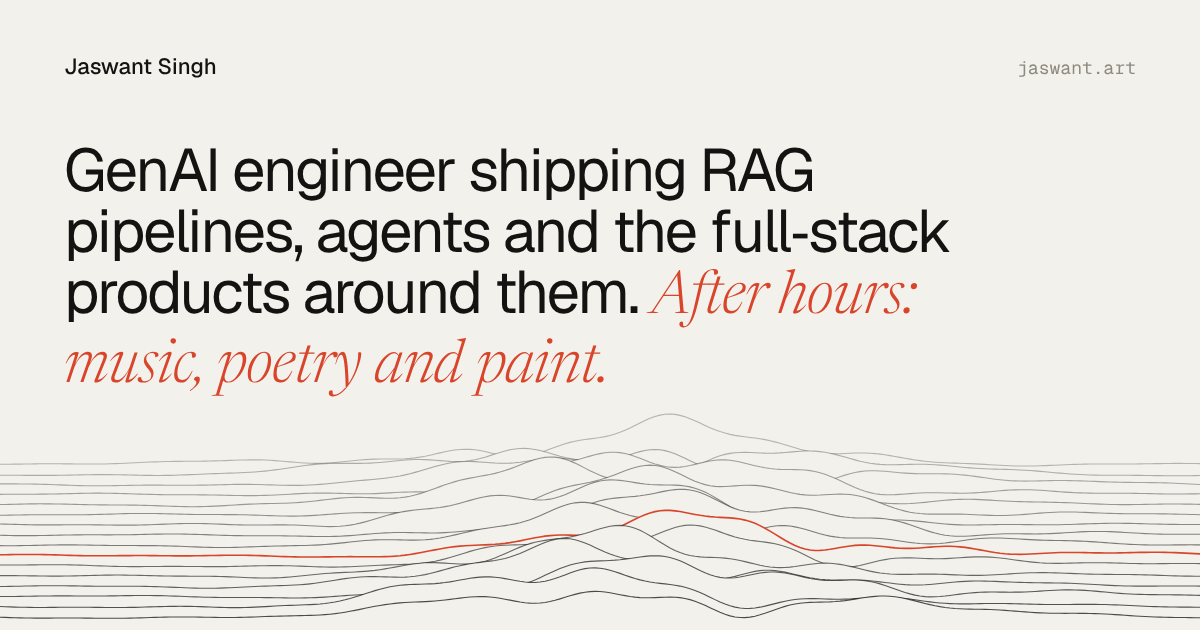
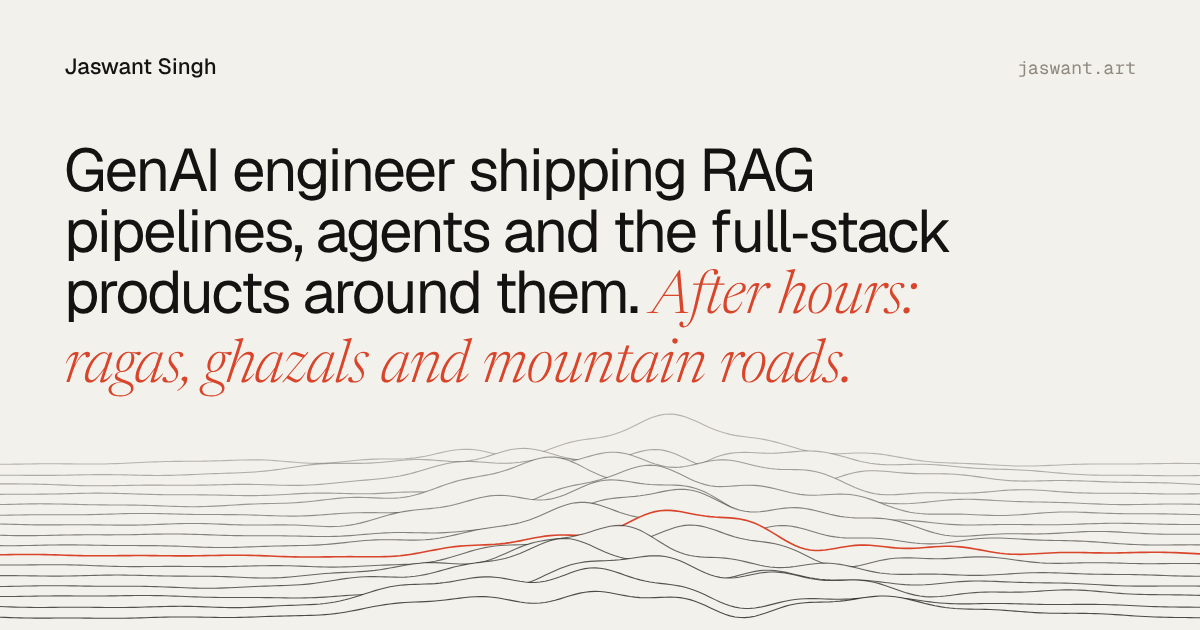
Rebuild the Studio as 'Life' from what Jaswant actually loves
- tagline: 'After hours: ragas, ghazals and mountain roads.' (intro, meta,
  OG/Twitter, JSON-LD, README, og.png)
- new numbered grid: music (Hindustani classical, Gurmat Sangeet;
  harmonium, esraj, ukulele, guitar), poetry (Urdu/Punjabi ghazals and
  shers), mountains and riding, training, photography, F1 and football,
  learning
- section and nav renamed Studio -> Life on every page
- made-up painting placeholders hidden until real images exist
- JSON-LD knowsAbout lists the real interests

Claude-Session: https://claude.ai/code/session_014vCEzSTZnLn7Lt8MZwKe4s

Changed region(s): [[0.0617, 0.5429, 0.7092, 0.6333]]

diff --git a/index.html b/index.html
@@ -4,18 +4,18 @@
 <meta charset="UTF-8" />
 <meta name="viewport" content="width=device-width, initial-scale=1.0" />
 <title>Jaswant Singh — GenAI Engineer</title>
-<meta name="description" content="Jaswant Singh is a GenAI engineer with 4+ years shipping production RAG pipelines, agentic workflows and the full-stack products around them. After hours: music, poetry and paint." />
+<meta name="description" content="Jaswant Singh is a GenAI engineer with 4+ years shipping production RAG pipelines, agentic workflows and the full-stack products around them. After hours: ragas, ghazals and mountain roads." />
 <meta name="theme-color" content="#f3f1ec" />
 <link rel="canonical" href="https://jaswant.art/" />
 <meta property="og:type" content="website" />
 <meta property="og:url" content="https://jaswant.art/" />
 <meta property="og:title" content="Jaswant Singh — GenAI Engineer" />
-<meta property="og:description" content="GenAI engineer shipping RAG pipelines, agents and the full-stack products around them. After hours: music, poetry and paint." />
+<meta property="og:description" content="GenAI engineer shipping RAG pipelines, agents and the full-stack products around them. After hours: ragas, ghazals and mountain roads." />
 <meta property="og:image" content="https://jaswant.art/og.png" />
 <meta name="twitter:card" content="summary_large_image" />
 <meta name="twitter:creator" content="@CodeComposer009" />
 <meta name="twitter:title" content="Jaswant Singh — GenAI Engineer" />
-<meta name="twitter:description" content="GenAI engineer shipping RAG pipelines, agents and the full-stack products around them. After hours: music, poetry and paint." />
+<meta name="twitter:description" content="GenAI engineer shipping RAG pipelines, agents and the full-stack products around them. After hours: ragas, ghazals and mountain roads." />
 <meta name="twitter:image" content="https://jaswant.art/og.png" />
 <link rel="icon" href="/favicon.ico" sizes="any" />
 <link rel="icon" type="image/png" sizes="32x32" href="/img/favicon-32.png" />
@@ -33,7 +33,7 @@
   "url": "https://jaswant.art/",
   "image": "https://jaswant.art/img/me.png",
   "jobTitle": "Senior Software Engineer (GenAI / Full-Stack)",
-  "description": "GenAI engineer shipping RAG pipelines, agents and the full-stack products around them. After hours: music, poetry and paint.",
+  "description": "GenAI engineer shipping RAG pipelines, agents and the full-stack products around them. After hours: ragas, ghazals and mountain roads.",
   "email": "mailto:jaswantsinghjsn@gmail.com",
   "worksFor": { "@type": "Organization", "name": "Intelligaia Technologies" },
   "alumniOf": [
@@ -41,7 +41,7 @@
     { "@type": "HighSchool", "name": "Mahavir Public School, Sundernagar" }
   ],
   "address": { "@type": "PostalAddress", "addressLocality": "Mandi", "addressRegion": "Himachal Pradesh", "addressCountry": "IN" },
-  "knowsAbout": ["Generative AI", "Retrieval-augmented generation", "AI agents", "LangChain", "LangGraph", "MLOps", "React", "Next.js", "Node.js", "Python", "FastAPI", "MongoDB", "System design", "Music", "Poetry", "Painting"],
+  "knowsAbout": ["Generative AI", "Retrieval-augmented generation", "AI agents", "LangChain", "LangGraph", "MLOps", "React", "Next.js", "Node.js", "Python", "FastAPI", "MongoDB", "System design", "Hindustani classical music", "Gurmat Sangeet", "Harmonium", "Esraj", "Poetry", "Urdu and Punjabi ghazals", "Photography", "Motorcycling", "Formula 1", "Bodybuilding", "Running"],
   "sameAs": [
     "https://github.com/jaswantsinghh",
     "https://www.linkedin.com/in/jaswant-singh009",
@@ -60,7 +60,7 @@
     <a href="#work">Work</a>
     <a href="#experience" class="top__wide">Experience</a>
     <a href="#writing">Research</a>
-    <a href="#studio">Studio</a>
+    <a href="#studio">Life</a>
     <a href="#contact">Contact</a>
     <a href="resume.pdf" class="top__wide" target="_blank" rel="noopener">Résumé</a>
   </nav>
@@ -74,7 +74,7 @@
     <img class="intro__me" id="me" src="img/me.png" width="180" height="180" alt="Jaswant’s memoji: a smiling face with a grey turban and a full black beard" />
     <h1 class="intro__lede" data-split>
       GenAI engineer shipping RAG pipelines, agents and the full&#8209;stack products around them.
-      <span class="soft">After hours: music, poetry and paint.</span>
+      <span class="soft">After hours: ragas, ghazals and mountain roads.</span>
     </h1>
 
     <dl class="intro__meta">
@@ -260,16 +260,62 @@
   <section class="studio" id="studio">
     <header class="block__head">
       <span class="block__num mono">05</span>
-      <h2 class="block__title">Studio</h2>
+      <h2 class="block__title">Life</h2>
     </header>
 
     <p class="studio__intro" data-reveal>
-      The other half of the work: music, poetry and painting,
-      and small notes on what I notice.
+      The other half. Ragas and kirtan, ghazals and shers,
+      mountain roads, and whatever I'm learning this month.
     </p>
 
-    <!-- ✏ EDIT HERE: swap each .plate__ph for <img src="art/your-file.jpg" alt="Title" /> -->
-    <div class="plates">
+    <!-- ✏ EDIT HERE: the things I love outside work -->
+    <ol class="life">
+      <li class="life__item" data-reveal>
+        <span class="life__n mono">01</span>
+        <h3 class="life__t">Music</h3>
+        <p>Hindustani classical and Gurmat Sangeet. I play the harmonium and the esraj, and the ukulele and guitar when it's lighter.</p>
+        <p class="life__meta mono">Harmonium · Esraj · Ukulele · Guitar</p>
+      </li>
+      <li class="life__item" data-reveal>
+        <span class="life__n mono">02</span>
+        <h3 class="life__t">Poetry</h3>
+        <p>I read and write poems, and keep returning to Urdu and Punjabi ghazals and shers.</p>
+        <p class="life__meta mono">Ghazal · Sher · Urdu · Punjabi</p>
+      </li>
+      <li class="life__item" data-reveal>
+        <span class="life__n mono">03</span>
+        <h3 class="life__t">Mountains</h3>
+        <p>Travel, mostly uphill, and the roads are better on a bike.</p>
+        <p class="life__meta mono">Travel · Riding</p>
+      </li>
+      <li class="life__item" data-reveal>
+        <span class="life__n mono">04</span>
+        <h3 class="life__t">Training</h3>
+        <p>Bodybuilding and running.</p>
+        <p class="life__meta mono">Strength · Distance</p>
+      </li>
+      <li class="life__item" data-reveal>
+        <span class="life__n mono">05</span>
+        <h3 class="life__t">Photography</h3>
+        <p>Looking a little longer than I need to, and keeping the frame.</p>
+        <p class="life__meta mono">Camera</p>
+      </li>
+      <li class="life__item" data-reveal>
+        <span class="life__n mono">06</span>
+        <h3 class="life__t">Race day</h3>
+        <p>A Formula 1 enthusiast, and always up for watching football.</p>
+        <p class="life__meta mono">F1 · Football</p>
+      </li>
+      <li class="life__item life__item--wide" data-reveal>
+        <span class="life__n mono">07</span>
+        <h3 class="life__t">Learning</h3>
+        <p>Always picking up something new. It's the same habit that keeps the engineering honest.</p>
+      </li>
+    </ol>
+
+    <!-- ✏ EDIT HERE: hidden until there are real photos / artworks. Swap each .plate__ph for
+         <img src="art/your-file.jpg" alt="Title" />, fix the captions, then delete `hidden`. -->
+    <div class="plates" hidden>
       <figure class="plate plate--a" data-reveal>
         <div class="plate__img"><div class="plate__ph plate__ph--1"></div></div>
         <figcaption><span>Untitled I</span><span class="mono">Oil on canvas</span></figcaption>

diff --git a/css/style.css b/css/style.css
@@ -591,3 +591,23 @@ img { display: block; max-width: 100%; }
   box-shadow: 0 30px 60px -30px rgba(20, 19, 17, 0.25);
 }
 .cs-shot figcaption { margin-top: 12px; color: var(--ink-3); max-width: 70ch; }
+
+/* ─────────────────────────── life (interests) ─────────────────────────── */
+.life {
+  display: grid; grid-template-columns: repeat(3, 1fr); column-gap: var(--gap); row-gap: clamp(40px, 6vh, 64px);
+  margin-bottom: clamp(96px, 15vh, 170px);
+}
+.life__item { border-top: 1px solid var(--rule); padding-top: 14px; }
+.life__item--wide { grid-column: span 3; }
+.life__n { color: var(--ink-3); }
+.life__t {
+  font-family: var(--serif); font-weight: 300; font-style: italic;
+  font-size: clamp(34px, 3.6vw, 56px); line-height: 1; letter-spacing: -0.02em;
+  margin: 10px 0 14px;
+  transition: color 0.35s;
+}
+.life__item:hover .life__t { color: var(--accent); }
+.life__item p { color: var(--ink-2); font-size: 15.5px; max-width: 38ch; }
+.life__meta { margin-top: 12px; color: var(--ink-3) !important; font-size: 12px !important; }
+@media (max-width: 900px) { .life { grid-template-columns: 1fr 1fr; } .life__item--wide { grid-column: 1 / -1; } }
+@media (max-width: 560px) { .life { grid-template-columns: 1fr; } }

diff --git a/work/auctionwire/index.html b/work/auctionwire/index.html
@@ -33,7 +33,7 @@
     <a href="../../#work">Work</a>
     <a href="../../#experience" class="top__wide">Experience</a>
     <a href="../../#writing">Research</a>
-    <a href="../../#studio">Studio</a>
+    <a href="../../#studio">Life</a>
     <a href="#contact">Contact</a>
   </nav>
   <span class="top__time mono" id="clock" aria-label="Local time"></span>

diff --git a/work/nucleux/index.html b/work/nucleux/index.html
@@ -33,7 +33,7 @@
     <a href="../../#work">Work</a>
     <a href="../../#experience" class="top__wide">Experience</a>
     <a href="../../#writing">Research</a>
-    <a href="../../#studio">Studio</a>
+    <a href="../../#studio">Life</a>
     <a href="#contact">Contact</a>
   </nav>
   <span class="top__time mono" id="clock" aria-label="Local time"></span>

diff --git a/work/saransh/index.html b/work/saransh/index.html
@@ -33,7 +33,7 @@
     <a href="../../#work">Work</a>
     <a href="../../#experience" class="top__wide">Experience</a>
     <a href="../../#writing">Research</a>
-    <a href="../../#studio">Studio</a>
+    <a href="../../#studio">Life</a>
     <a href="#contact">Contact</a>
   </nav>
   <span class="top__time mono" id="clock" aria-label="Local time"></span>

diff --git a/README.md b/README.md
@@ -1,6 +1,6 @@
 # jaswant.art
 
-Personal site of Jaswant Singh: GenAI engineer who loves music, poetry and paint.
+Personal site of Jaswant Singh: GenAI engineer. After hours: ragas, ghazals and mountain roads.
 
 Paper, ink and one red, set on a 12-column grid. Static HTML/CSS/JS with no build step.
 Open `index.html` in a browser, or serve the folder:
@@ -30,7 +30,8 @@ img/            memoji and favicons
 | Intro sentence and the "Currently / Focus / Also" row | `.intro` in `index.html` |
 | Projects | `#workRows`: one `<li class="row">` per project. `data-seed` picks the hover drawing |
 | Essays, research, journal | `js/content.js` (rendered automatically; essays and research open in a side reader) |
-| Paintings | `.plates`: replace each `<div class="plate__ph …">` with `<img src="art/file.jpg" alt="…" />` |
+| Life section | `.life` list in `index.html`, one `<li>` per interest |
+| Photos / artworks (hidden) | `.plates`: replace each `<div class="plate__ph …">` with `<img src="art/file.jpg" alt="…" />` |
 | Poems and notes | `.poems` and `.notes__list` in `index.html` |
 | Email and links | `.contact`. The **Copy** button copies whatever is in its `data-copy` attribute |
 | Résumé | replace `resume.pdf` in the repo root. It's linked from the header and the footer, so keep the phone number out of it |
